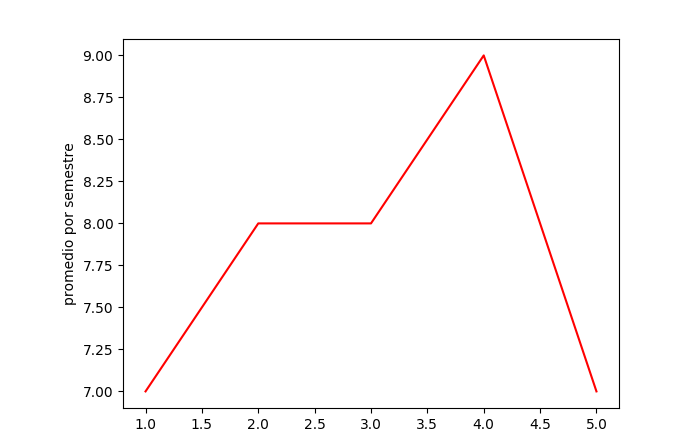
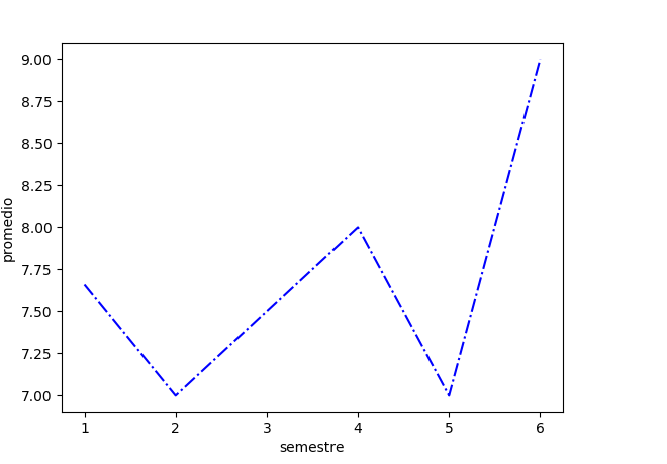
Add files via upload
Final

diff --git a/main (1).py b/main (1).py
@@ -1,0 +1,7 @@
+import matplotlib.pyplot as plt
+x = [1,2,3,4,5,6]
+y = [7.66,7,7.5,8,7,9]
+plt.plot(x, y, 'b-.')
+plt.xlabel('semestre')
+plt.ylabel('promedio')
+plt.savefig('temp3.png')
